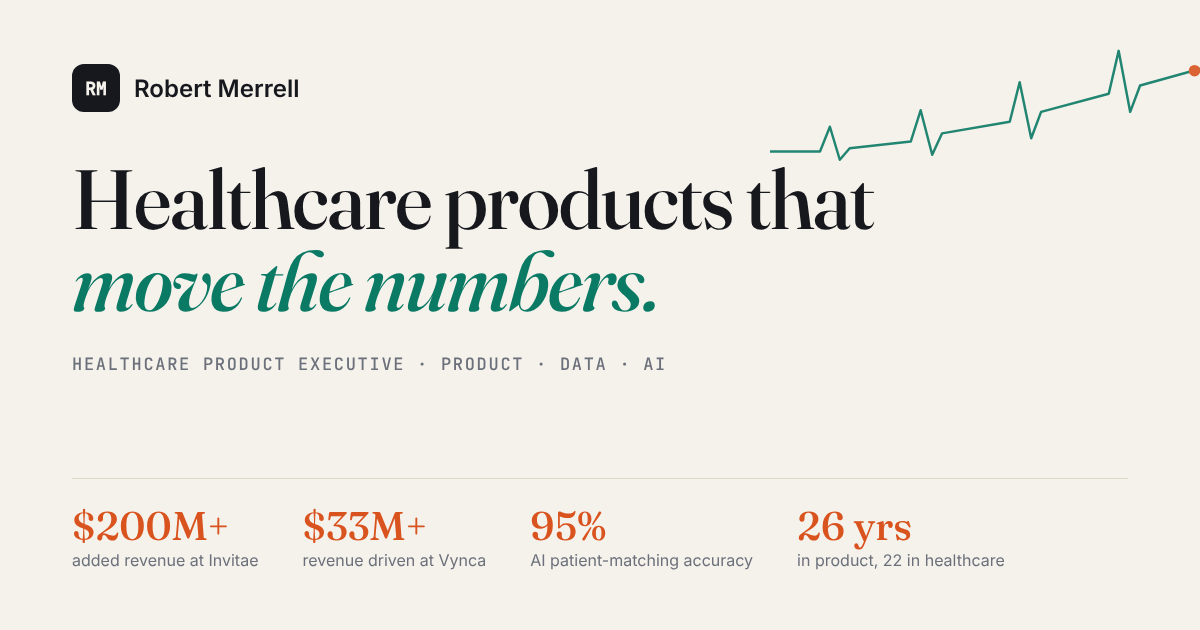
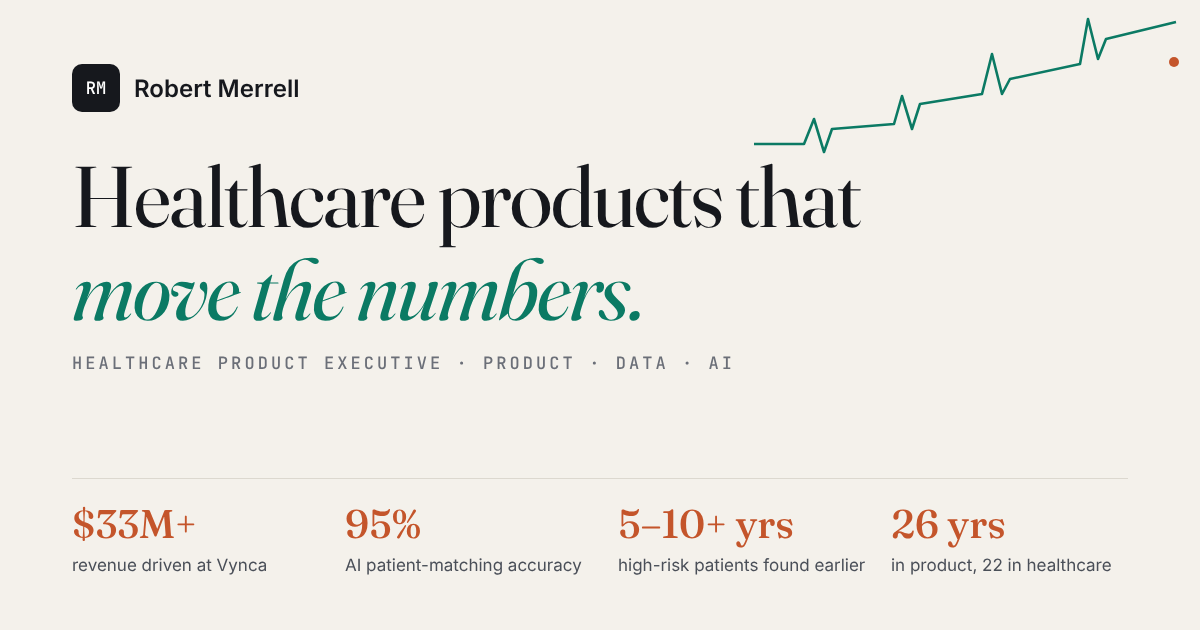
Portfolio: accurate claims, $200M off the home page, Vynca cards merged
- Home and resume: the $200M tile is replaced by "5-10+ years earlier
  identification of high-risk patients"; $200M stays on the Work page,
  framed as the organization's shift from free to paid testing (payer-aware
  ordering, cash-pay switching, appeals prioritized by payer).
- Lucem natural-language analytics: new questions answered in real time
  instead of 4-8 weeks; the 80% adoption and +65% satisfaction figures are gone.
- Early detection: 12 diseases, multiple life-science partners, high-risk
  patients found 5-10+ years earlier.
- Care pathways: 60% patient adoption (no benchmark claim).
- Patient matching: the 20% reimbursement and $125M figures are replaced by
  the ~$30K+ cost of unwanted care per encounter.
- Vynca: the e-signature and advance-directive cards are one case study;
  old #e-signature and #patient-engagement links open it.
- 65% time to market is labeled as Vynca. New sharing image without $200M.

Claude-Session: https://claude.ai/code/session_0143wG8GwjduExhtNF7332nR

diff --git a/work.html b/work.html
@@ -132,15 +132,15 @@
                 <div>
                   <div class="meta">Lucem Health · AI · Data &amp; analytics</div>
                   <h3>Natural-language analytics over EMR data</h3>
-                  <p>Large and small language models with agents, so users can ask plain-English questions of clinical data.</p>
-                  <div class="metric-row"><div class="metric"><b>8 wk → 1</b><span>time to market</span></div><div class="metric"><b>80%</b><span>customer adoption</span></div><div class="metric"><b>+65%</b><span>customer satisfaction</span></div></div>
+                  <p>Large and small language models with agents, so users can ask plain-English questions of clinical data and get answers themselves, in real time.</p>
+                  <div class="metric-row"><div class="metric"><b>Weeks → real time</b><span>to answer a new question, down from 4–8 weeks</span></div><div class="metric"><b>Self-serve</b><span>users answer their own questions</span></div></div>
                 </div>
                 <span class="plus" aria-hidden="true">+</span>
               </summary>
               <div class="case-body">
                 <div>
                   <h4>Challenge</h4>
-                  <p>Getting insight from EMR data meant waiting on custom analysis, which took about eight weeks per request. Both internal teams and customers needed to ask their own questions and get trustworthy answers.</p>
+                  <p>Every new question about EMR data had to be built into the product as a custom analysis, which took 4 to 8 weeks per question. Internal teams and customers needed to ask their own questions and get trustworthy answers without waiting.</p>
                 </div>
                 <div>
                   <h4>Approach</h4>
@@ -152,7 +152,7 @@
                 </div>
                 <div>
                   <h4>Outcome</h4>
-                  <p>Time to market fell from eight weeks to one. 80% of customers adopted it, and customer satisfaction rose 65%. The next phase put model outputs directly into enterprise BI tools, so insights show up in standard reporting and executive dashboards.</p>
+                  <p>Questions that used to wait 4 to 8 weeks to be built into the product are now answered in real time, by the users who ask them, and adoption grew as customers moved to self-service. The next phase put model outputs directly into enterprise BI tools, so insights show up in standard reporting and executive dashboards.</p>
                 </div>
               </div>
             </details>
@@ -191,9 +191,9 @@
                 <div>
                   <div class="meta">Lucem Health · AI · Predictive models</div>
                   <h3>Early disease and device detection</h3>
-                  <p>Explainable risk models that help life-science partners find the right patients earlier, across cardiology, diabetes, liver disease and rare-disease oncology.</p>
+                  <p>Explainable risk models that help life-science partners find high-risk patients years earlier, across 12 diseases including cardiology, diabetes, liver disease and rare-disease oncology.</p>
                   <div class="partner-row" aria-label="Partners"><span>iRhythm</span><span>Johnson &amp; Johnson</span><span>Sanofi</span><span>Novo Nordisk</span><span>Merck</span></div>
-                  <div class="metric-row"><div class="metric"><b>5</b><span>life-science partner programs</span></div><div class="metric"><b>$10M+</b><span>incremental annual revenue from market expansions</span></div></div>
+                  <div class="metric-row"><div class="metric"><b>5–10+ yrs</b><span>earlier identification of high-risk patients</span></div><div class="metric"><b>12</b><span>diseases across multiple life-science partners</span></div><div class="metric"><b>$10M+</b><span>incremental annual revenue from market expansions</span></div></div>
                 </div>
                 <span class="plus" aria-hidden="true">+</span>
               </summary>
@@ -214,7 +214,7 @@
                 </div>
                 <div>
                   <h4>Outcome</h4>
-                  <p>High-risk patients identified earlier, and providers trained to find and test them, so overall volume increased. Market expansions into arrhythmia, oncology and GLP-1 therapeutic areas generated $10M+ in incremental annual revenue.</p>
+                  <p>High-risk patients identified 5 to 10+ years earlier across 12 diseases, and providers trained to find and test them, so overall volume increased. Market expansions into arrhythmia, oncology and GLP-1 therapeutic areas generated $10M+ in incremental annual revenue.</p>
                 </div>
                 <div class="programs">
                   <h4>Programs</h4>
@@ -261,7 +261,7 @@
                   <div class="meta">Lucem Health · AI · Patient journeys</div>
                   <h3>Patient care pathways before and after diagnosis</h3>
                   <p>Longitudinal modeling that shows how patients actually move through the health system.</p>
-                  <div class="metric-row"><div class="metric"><b>60%</b><span>patient engagement, 2× industry benchmark</span></div></div>
+                  <div class="metric-row"><div class="metric"><b>60%</b><span>patient adoption</span></div></div>
                 </div>
                 <span class="plus" aria-hidden="true">+</span>
               </summary>
@@ -280,7 +280,7 @@
                 </div>
                 <div>
                   <h4>Outcome</h4>
-                  <p>Found faster routes to diagnosis, showed how pre-diagnosis journeys affect outcomes, and enabled proactive outreach for gaps in care. Direct-to-consumer and AI-driven clinical workflows reached 60% patient engagement, twice the industry benchmark.</p>
+                  <p>Found faster routes to diagnosis, showed how pre-diagnosis journeys affect outcomes, and enabled proactive outreach for gaps in care. Direct-to-consumer and AI-driven clinical workflows reached 60% patient adoption.</p>
                 </div>
               </div>
             </details>
@@ -291,7 +291,7 @@
                   <div class="meta">Vynca · AI · Identity resolution</div>
                   <h3>Patient matching across health systems and state registries</h3>
                   <p>An identity-resolution engine for advance care planning records.</p>
-                  <div class="metric-row"><div class="metric"><b>95%+</b><span>match accuracy</span></div><div class="metric"><b>+20%</b><span>reimbursement rates</span></div></div>
+                  <div class="metric-row"><div class="metric"><b>95%+</b><span>match accuracy</span></div><div class="metric"><b>~$30K+</b><span>in unwanted care per encounter when a directive is missed</span></div></div>
                 </div>
                 <span class="plus" aria-hidden="true">+</span>
               </summary>
@@ -310,7 +310,7 @@
                 </div>
                 <div>
                   <h4>Outcome</h4>
-                  <p>Over 95% match accuracy, which improved continuity of care and compliance for ACP documentation. Better matching also improved revenue cycle reimbursement rates by 20%, worth $125M in six months.</p>
+                  <p>Over 95% match accuracy, which improved continuity of care and compliance for ACP documentation. Finding a patient's advance directive matters financially as well as clinically: on average, care a patient didn't want adds about $30K+ in costs per encounter.</p>
                 </div>
               </div>
             </details>
@@ -350,27 +350,28 @@
                 <div>
                   <div class="meta">Invitae · AI/ML · Revenue cycle</div>
                   <h3>Order flows that adapt to each payer</h3>
-                  <p>Models trained on approvals and denials guide providers to first-pass approval.</p>
-                  <div class="metric-row"><div class="metric"><b>$200M+</b><span>added revenue (with billing automation and EMR work)</span></div></div>
+                  <p>Part of the move from giving tests away to charging for them: steer every order toward what the patient's insurance will cover.</p>
+                  <div class="metric-row"><div class="metric"><b>$200M+</b><span>added revenue from the organization's shift to paid testing</span></div></div>
                 </div>
                 <span class="plus" aria-hidden="true">+</span>
               </summary>
               <div class="case-body">
                 <div>
                   <h4>Challenge</h4>
-                  <p>Diagnostic orders were being denied because each payer wants different clinical information, and those rules vary by policy and region.</p>
+                  <p>Invitae had grown adoption by giving tests away. The organization shifted to charging for them, so every order had to fit what the patient's payer would cover, and each payer wants different clinical information, with rules that vary by policy and region.</p>
                 </div>
                 <div>
                   <h4>Approach</h4>
                   <ul>
-                    <li>Trained machine learning models on historical approval and denial data.</li>
-                    <li>Adjusted order workflows in real time for each payer's policies, coverage criteria and regional differences.</li>
-                    <li>Prompted providers to pick the right test and include the documentation it needs up front.</li>
+                    <li>Suggested the right test for each provider based on the patient's insurance, and guided them through the order flow with the documentation that payer needs.</li>
+                    <li>Trained machine learning models on historical approvals and denials, and adjusted order workflows for each payer's policies, coverage criteria and regional differences.</li>
+                    <li>Notified patients to switch to cash pay as soon as we could tell their insurance wouldn't cover the test.</li>
+                    <li>Prioritized the appeals team's work on the payers most likely to approve, and moved payers unlikely to pay to cash.</li>
                   </ul>
                 </div>
                 <div>
                   <h4>Outcome</h4>
-                  <p>Higher reimbursement success and less administrative work for providers. This was part of the AI/ML order and billing work that added $200M+ in revenue.</p>
+                  <p>Higher reimbursement success and less administrative work for providers. Together with personalized appeal letters (below) and billing automation, this was part of the organization's shift to paid testing that added $200M+ in revenue.</p>
                 </div>
               </div>
             </details>
@@ -380,7 +381,7 @@
                 <div>
                   <div class="meta">Invitae · LLMs · Revenue cycle</div>
                   <h3>Personalized appeal letters, written by LLMs</h3>
-                  <p>Clinical context, patient history and payer-specific language in every appeal.</p>
+                  <p>Clinical context, patient history and the language each payer was approving, in every appeal. Part of the $200M+ shift to paid testing.</p>
                   <div class="tags"><span class="tag">Generative AI</span><span class="tag">Reimbursement</span></div>
                 </div>
                 <span class="plus" aria-hidden="true">+</span>
@@ -392,11 +393,11 @@
                 </div>
                 <div>
                   <h4>Approach</h4>
-                  <p>Used LLMs to draft each appeal from the clinical context, the patient's history and the payer's own language, so every letter was tailored for the best chance of success.</p>
+                  <p>Used LLMs to draft each appeal from the clinical context, the patient's history and the language we were seeing approved by each payer. Payer behavior kept shifting, so the letters were updated as approval patterns changed. Appeals were worked first for the payers most likely to approve.</p>
                 </div>
                 <div>
                   <h4>Outcome</h4>
-                  <p>Significantly less staff time spent on appeals, and higher appeal approval rates.</p>
+                  <p>Significantly less staff time spent on appeals, and higher appeal approval rates, as part of the shift to paid testing that added $200M+ in revenue.</p>
                 </div>
               </div>
             </details>
@@ -529,58 +530,34 @@
               </div>
             </details>
 
-            <details class="card case" id="e-signature" data-tags="patient" data-ask="Synchronous & asynchronous e-signature" data-kind="Case study">
+            <details class="card case" id="advance-directives" data-tags="patient" data-ask="Guided advance directives and e-signature" data-kind="Case study">
               <summary>
                 <div>
-                  <div class="meta">Vynca · Clinician &amp; patient experience</div>
-                  <h3>E-signature that works in real clinics</h3>
-                  <p>Live and asynchronous signing for patients, witnesses and physicians.</p>
-                  <div class="metric-row"><div class="metric"><b>73%</b><span>digital ACP completion rate</span></div></div>
+                  <span id="e-signature"></span><span id="patient-engagement"></span>
+                  <div class="meta">Vynca · Patient &amp; clinician experience</div>
+                  <h3>Guided advance directives, from first step to signature</h3>
+                  <p>Patients 65+ start an advance directive in their EMR's patient portal and finish it, with live or asynchronous signing for patients, providers, notaries and advocates.</p>
+                  <div class="metric-row"><div class="metric"><b>73%</b><span>digital ACP completion rate</span></div><div class="metric"><b>~2 months</b><span>faster average implementation</span></div></div>
                 </div>
                 <span class="plus" aria-hidden="true">+</span>
               </summary>
               <div class="case-body">
                 <div>
                   <h4>Challenge</h4>
-                  <p>Most clinic laptops don't have touch screens, and not every signer is ready during the visit. Health systems also wanted as few physician logins as possible.</p>
+                  <p>Get patients in the door, help them start an advance directive, and see it through to a signed document. The main users are 65 or older and may not be comfortable with digital tools. Most clinic laptops don't have touch screens, not every signer is ready during the visit, and health systems wanted as few physician logins as possible.</p>
                 </div>
                 <div>
                   <h4>Approach</h4>
                   <ul>
-                    <li><b>Synchronous:</b> sign on a tablet or phone during an in-person or virtual visit.</li>
-                    <li><b>Asynchronous:</b> scheduled email or text notifications when each signer's step is ready (patient, up to three witnesses, physician), with 2FA requirements checked against what each customer needs.</li>
+                    <li><b>Start:</b> a guided experience inside the EMR's own patient portal, with completion and review steps designed from user-centered research and behavioral health principles.</li>
+                    <li><b>Synchronous signing:</b> sign on a tablet or phone during an in-person or virtual visit.</li>
+                    <li><b>Asynchronous signing:</b> scheduled email or text notifications when each signer's step is ready (patient, witnesses or notary, provider, advocate), with 2FA requirements checked against what each customer needs.</li>
                     <li>A document upload path for the 10 to 20% of workflows that stayed on paper, with quality checks.</li>
                   </ul>
                 </div>
                 <div>
                   <h4>Outcome</h4>
-                  <p>Contributed to a 73% digital completion rate for patient-centered ACP workflows, a leading result in the space. A self-service platform cut average implementation time by about two months.</p>
-                </div>
-              </div>
-            </details>
-
-            <details class="card case" id="patient-engagement" data-tags="patient" data-ask="Vynca patient engagement portal" data-kind="Case study">
-              <summary>
-                <div>
-                  <div class="meta">Vynca · Consumer health</div>
-                  <h3>Guided advance directives for patients 65+</h3>
-                  <p>A patient portal that fits into the EMR's own patient portal.</p>
-                  <div class="metric-row"><div class="metric"><b>20%</b><span>adoption goal</span></div></div>
-                </div>
-                <span class="plus" aria-hidden="true">+</span>
-              </summary>
-              <div class="case-body">
-                <div>
-                  <h4>Challenge</h4>
-                  <p>Let patients start and finish their own advance directives digitally, when the main users are 65 or older and may not be comfortable with digital tools.</p>
-                </div>
-                <div>
-                  <h4>Approach</h4>
-                  <p>Guided completion and review steps, an experience that fits within the EMR's patient portal, and design choices based on user-centered research and behavioral health principles.</p>
-                </div>
-                <div>
-                  <h4>Outcome</h4>
-                  <p>A direct-to-patient channel for advance care planning, built on the same core platform as the dashboards, guided workflows, e-signature and document review.</p>
+                  <p>A 73% digital completion rate for patient-centered ACP workflows, a leading result in the space, built on the same core platform as the dashboards, task manager and document review. A self-service platform cut average implementation time by about two months.</p>
                 </div>
               </div>
             </details>

diff --git a/index.html b/index.html
@@ -6,7 +6,7 @@
 <title>Robert Merrell · Healthcare Product Executive</title>
 <meta name="description" content="Robert Merrell: healthcare product executive with 26 years of experience, 22 of them full time in healthcare, leading product, data and AI strategy across health systems, payers, life sciences, diagnostics and digital health.">
 <meta property="og:title" content="Robert Merrell · Healthcare Product Executive">
-<meta property="og:description" content="Healthcare product executive with 26 years of experience: $200M+ added revenue at Invitae, $33M+ at Vynca, 95% AI patient-matching accuracy.">
+<meta property="og:description" content="Healthcare product executive with 26 years of experience: $33M+ revenue driven at Vynca, 95% AI patient-matching accuracy, high-risk patients found 5–10+ years earlier.">
 <meta property="og:type" content="website">
 <meta property="og:url" content="https://portfolio.productadvisory.co/">
 <meta property="og:image" content="https://portfolio.productadvisory.co/assets/img/og.png">
@@ -98,7 +98,7 @@
           <div class="lens-top"><span class="eyebrow">Start here · for hiring managers</span><button type="button" class="lens-change" data-lens="">Change</button></div>
           <h3>Where I'd start if I were you</h3>
           <ul>
-            <li><b>Commercial results:</b> $200M+ added revenue at Invitae, $33M+ at Vynca, 50 to 800+ hospital clients at Allscripts</li>
+            <li><b>Commercial results:</b> $33M+ revenue at Vynca, 50 to 800+ hospital clients at Allscripts, $10M+ new annual revenue from Lucem Health market expansions</li>
             <li><b>AI that shipped:</b> patient matching at 95% accuracy, payer-aware ordering, LLM-written appeals, natural-language analytics</li>
             <li><b>Organizations built:</b> Head of Product twice, building the team from scratch</li>
           </ul>
@@ -129,9 +129,9 @@
   <!-- Stats -->
   <div class="wrap" data-ask="Impact in numbers" data-kind="Home">
     <div class="stats" role="list">
-      <div class="stat" role="listitem"><b data-count="200" data-prefix="$" data-suffix="M+">$200M+</b><span>added revenue at Invitae through AI/ML order efficiencies and billing automation</span></div>
-      <div class="stat" role="listitem"><b data-count="33" data-prefix="$" data-suffix="M+">$33M+</b><span>revenue driven at Vynca as Head of Product</span></div>
+            <div class="stat" role="listitem"><b data-count="33" data-prefix="$" data-suffix="M+">$33M+</b><span>revenue driven at Vynca as Head of Product</span></div>
       <div class="stat" role="listitem"><b data-count="95" data-suffix="%">95%</b><span>accuracy for an AI patient-matching engine across fragmented systems</span></div>
+      <div class="stat" role="listitem"><b>5–10+</b><span>years earlier identification of high-risk patients, across 12 diseases</span></div>
       <div class="stat" role="listitem"><b data-count="800" data-suffix="+">800+</b><span>hospital clients at Allscripts (ECIN), up from 50</span></div>
       <div class="stat" role="listitem"><b data-count="22" data-suffix=" yrs">22 yrs</b><span>full time in healthcare, out of 26 years of experience</span></div>
     </div>
@@ -202,8 +202,8 @@
           <span class="go">↗</span>
           <div class="meta">Lucem Health · AI · Data &amp; analytics</div>
           <h3>Natural-language questions over EMR data</h3>
-          <p>An analytics platform that combines large and small language models with agents, so internal and external users can ask plain-English questions of EMR data and get insights they can act on.</p>
-          <div class="metric-row"><div class="metric"><b>8 wk → 1</b><span>time to market</span></div><div class="metric"><b>80%</b><span>customer adoption</span></div><div class="metric"><b>+65%</b><span>customer satisfaction</span></div></div>
+          <p>An analytics platform that combines large and small language models with agents, so internal and external users can ask plain-English questions of EMR data and get answers in real time, instead of waiting 4 to 8 weeks for each new question to be built.</p>
+          <div class="metric-row"><div class="metric"><b>Weeks → real time</b><span>to answer a new question, down from 4–8 weeks</span></div><div class="metric"><b>Self-serve</b><span>users answer their own questions</span></div></div>
         </a>
         <a class="card reveal" href="/work#patient-matching" data-ask="AI patient matching" data-kind="Case study">
           <span class="go">↗</span>

diff --git a/resume.html b/resume.html
@@ -81,10 +81,10 @@
 
   <div class="wrap">
     <div class="stats" role="list" data-ask="Resume highlights" data-kind="Resume">
-      <div class="stat" role="listitem"><b data-count="200" data-prefix="$" data-suffix="M+">$200M+</b><span>added revenue at Invitae</span></div>
       <div class="stat" role="listitem"><b data-count="33" data-prefix="$" data-suffix="M+">$33M+</b><span>revenue driven at Vynca</span></div>
       <div class="stat" role="listitem"><b data-count="95" data-suffix="%">95%</b><span>AI patient-matching accuracy</span></div>
-      <div class="stat" role="listitem"><b data-count="65" data-suffix="%">65%</b><span>reduction in time to market</span></div>
+      <div class="stat" role="listitem"><b data-count="65" data-suffix="%">65%</b><span>reduction in time to market at Vynca</span></div>
+      <div class="stat" role="listitem"><b>5–10+</b><span>years earlier identification of high-risk patients</span></div>
       <div class="stat" role="listitem"><b data-count="22" data-suffix=" yrs">22 yrs</b><span>full time in healthcare (26 years overall)</span></div>
     </div>
   </div>
@@ -165,7 +165,8 @@
             <div class="org"><a href="https://lucemhealth.com/" target="_blank" rel="noopener">Lucem Health</a> · Life sciences, health systems &amp; integrations</div>
             <p>Led product strategy for AI-driven predictive analytics platforms serving health systems and life sciences companies, including programs with iRhythm, Johnson &amp; Johnson, Sanofi, Novo Nordisk and Merck. I mapped patients' pathways before and after diagnosis to power early-intervention workflows and value-based care programs.</p>
             <ul>
-              <li>Designed direct-to-consumer and AI-driven clinical workflows that reached 60% patient engagement, twice the industry benchmark.</li>
+              <li>Designed direct-to-consumer and AI-driven clinical workflows that reached 60% patient adoption.</li>
+              <li>Delivered explainable risk models across 12 diseases for multiple life-science partners, identifying high-risk patients 5 to 10+ years earlier.</li>
               <li>Launched market expansions that generated $10M+ in incremental annual revenue across arrhythmia, oncology and GLP-1 therapeutic areas.</li>
               <li>Set a product vision that scales across multiple disease states, based on data analytics, qualitative market research and clinical user feedback.</li>
             </ul>
@@ -179,7 +180,7 @@
             <div class="org"><a href="https://www.invitae.com/" target="_blank" rel="noopener">Invitae</a> · Head of billing, catalog, ordering &amp; integrations</div>
             <p>Owned end-to-end product strategy for billing optimization and EMR workflow automation at a $1B+ genetic information company.</p>
             <ul>
-              <li>Drove $200M+ in additional revenue through AI/ML test-order efficiencies, automated billing workflows and EMR optimization across major health systems.</li>
+              <li>Led payer-aware order flows, cash-pay switching, LLM-written appeals and billing automation as part of the organization's shift from free to paid testing, which added $200M+ in revenue.</li>
               <li>Built and launched Epic Aura bi-directional integrations for provider-centered genetic testing workflows, growing health-system adoption 15% in six months.</li>
               <li>Led teams across product, engineering, clinical affairs and sales to deliver compliant, interoperable solutions at scale.</li>
             </ul>

diff --git a/one-pager.html b/one-pager.html
@@ -109,19 +109,19 @@
   <p class="op-summary">26 years in product, 22 of them full time in healthcare, leading product, data and AI strategy across health systems, payers, life sciences, diagnostics and digital health. Twice Head of Product on an executive leadership team (Vynca, American Hospital Association), building both product organizations from the ground up.</p>
 
   <div class="op-stats">
-    <div><b>$200M+</b><span>added revenue at Invitae</span></div>
     <div><b>$33M+</b><span>revenue driven at Vynca</span></div>
     <div><b>95%</b><span>AI patient-matching accuracy</span></div>
-    <div><b>65%</b><span>reduction in time to market</span></div>
+    <div><b>65%</b><span>reduction in time to market at Vynca</span></div>
+    <div><b>26 yrs</b><span>experience, 22 in healthcare</span></div>
   </div>
 
   <div class="op-cols">
     <div>
       <h2>Selected outcomes</h2>
       <ul>
-        <li><b>Invitae:</b> $200M+ in added revenue through AI/ML test-order efficiencies, billing automation and EMR optimization. Epic Aura integrations grew health-system adoption 15% in six months.</li>
+        <li><b>Invitae:</b> payer-aware ordering, cash-pay switching and LLM-written appeals, part of the shift from free to paid testing that added $200M+ in revenue. Epic Aura integrations grew health-system adoption 15% in six months.</li>
         <li><b>Vynca:</b> built the product organization from scratch. 73% digital completion for advance care planning, and implementation time cut by about two months.</li>
-        <li><b>Lucem Health:</b> 60% patient engagement, twice the industry benchmark, and $10M+ in incremental annual revenue across arrhythmia, oncology and GLP-1.</li>
+        <li><b>Lucem Health:</b> high-risk patients found 5 to 10+ years earlier across 12 diseases, 60% patient adoption, and $10M+ in incremental annual revenue across arrhythmia, oncology and GLP-1.</li>
         <li><b>American Hospital Association:</b> 94% lower operating expenses in six months by consolidating Health Forum's data infrastructure.</li>
         <li><b>Allscripts (ECIN):</b> 50 to 800+ hospital clients and $3M to $120M in revenue, with 98% client retention over six years.</li>
       </ul>
@@ -129,7 +129,7 @@
       <ul>
         <li><b>Patient matching</b> across health systems and state registries at 95%+ accuracy</li>
         <li><b>LLM document matching</b> in all 50 states, cutting manual review by 70%+</li>
-        <li><b>Natural-language analytics</b> over EMR data: time to market from 8 weeks to 1, 80% adoption</li>
+        <li><b>Natural-language analytics</b> over EMR data: new questions answered in real time instead of 4 to 8 weeks</li>
         <li><b>Payer-aware ordering</b> and <b>LLM-written appeal letters</b> for reimbursement</li>
         <li><b>Built myself:</b> an AI-graded PM skills assessment and learning platform</li>
       </ul>

diff --git a/assets/js/site.js b/assets/js/site.js
@@ -181,6 +181,8 @@
   function openHash() {
     if (!location.hash) return;
     var el = document.getElementById(location.hash.slice(1));
+    // An older anchor kept inside a merged case study (#e-signature) opens that case study too.
+    if (el && el.tagName !== "DETAILS" && el.closest) el = el.closest("details.case");
     if (el && el.tagName === "DETAILS") { el.open = true; el.hidden = false; }
   }
 
